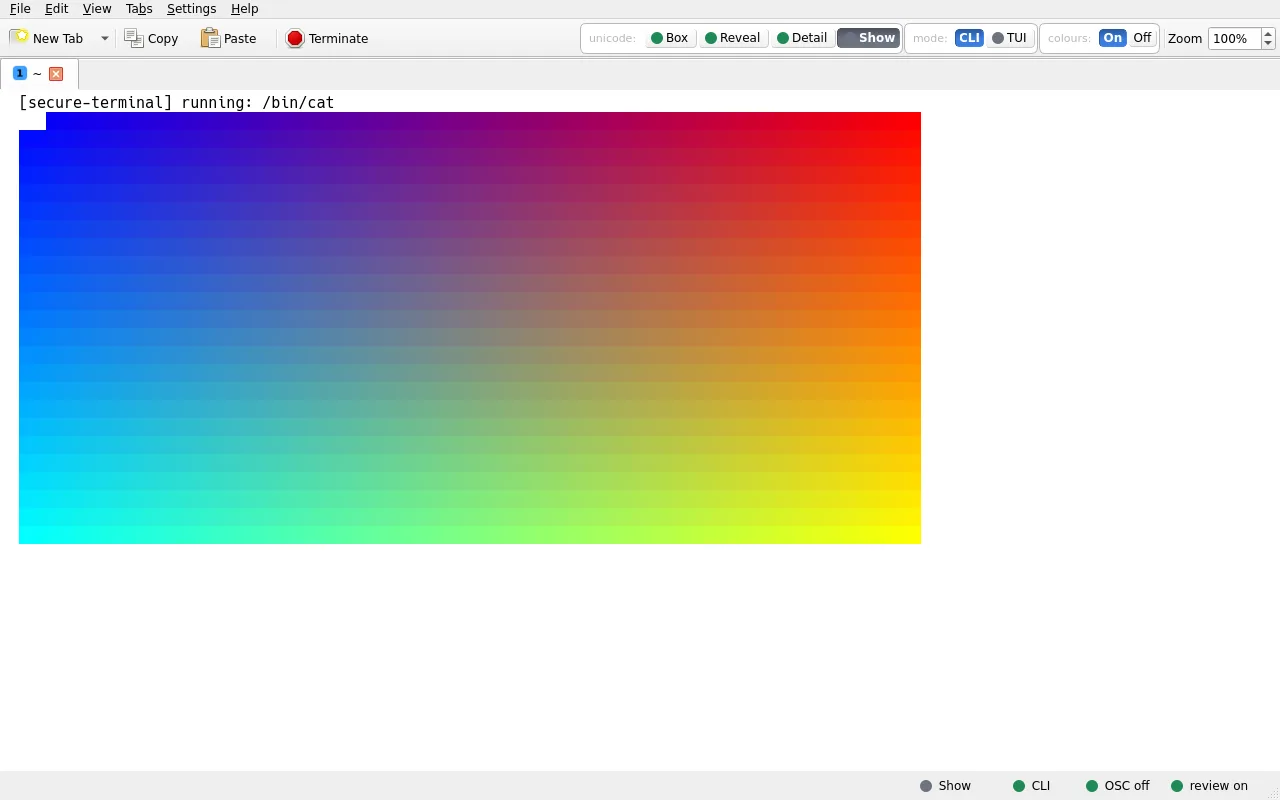
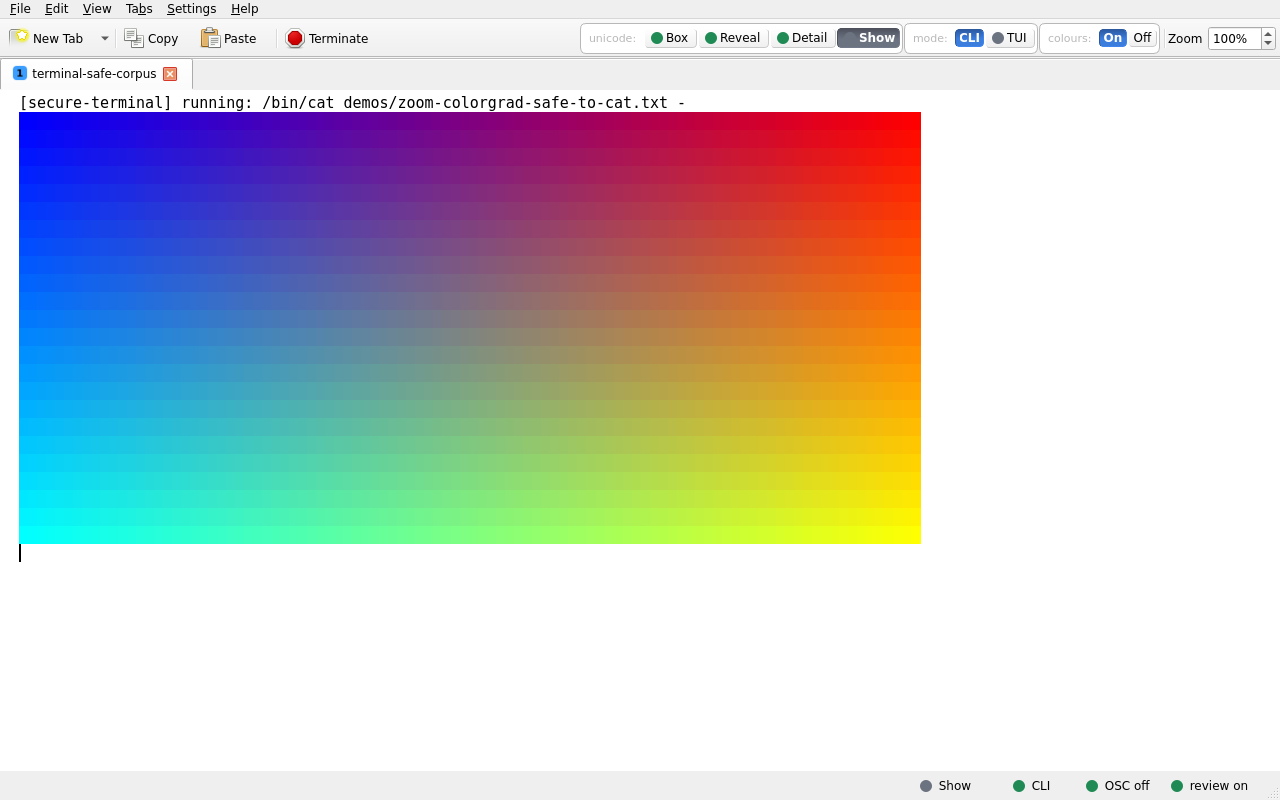
Regenerate zoom-verify shots; add TOC + reproduce blocks
- Regenerate all 23 zoom-verify shots against the fixed app: the colorgrad
  gradient's row-0 cells no longer go white (bg-only-space contrast fix), and
  each CLI shot's banner now names the real reproduce path (cat the committed
  terminal-safe-corpus board) instead of a bare /bin/cat.
- screenshots page: add the zoom-verify entry to the on-this-page TOC and a
  Reproduce block per board (view-the-board link + copyable cat command).
- ai-review page: add the missing #reproduce TOC entry (pre-existing gap the
  toc-complete guard flagged).

diff --git a/screenshots/index.html b/screenshots/index.html
@@ -70,6 +70,7 @@
     <li><a href="#showcase">Review bar &amp; modes</a></li>
     <li><a href="#render-modes">Every display mode</a></li>
     <li><a href="#compatibility">Real-tool compatibility</a></li>
+    <li><a href="#zoom-verify">Zoom levels, scanned for artifacts</a></li>
   </ul>
 </nav></div>
 
@@ -277,6 +278,7 @@ cat random.payload</code><button class="copybtn" type="button" hidden>Copy</butt
         <figure class="shot"><figcaption class="shotname"><b>CLI Detail, 1280x800, 100%</b></figcaption><a href="/screenshots/zoom/zoom-verify-tui-showcase-cli-detail-1280x800-z100.webp" target="_blank" rel="noopener"><img src="/screenshots/zoom/zoom-verify-tui-showcase-cli-detail-1280x800-z100.webp" width="1280" height="800" loading="lazy" alt="secure-terminal zoom check: combined showcase board, CLI Detail, 1280x800, 100%"></a></figure>
         <figure class="shot"><figcaption class="shotname"><b>CLI Detail, 1280x800, 200%</b></figcaption><a href="/screenshots/zoom/zoom-verify-tui-showcase-cli-detail-1280x800-z200.webp" target="_blank" rel="noopener"><img src="/screenshots/zoom/zoom-verify-tui-showcase-cli-detail-1280x800-z200.webp" width="1280" height="800" loading="lazy" alt="secure-terminal zoom check: combined showcase board, CLI Detail, 1280x800, 200%"></a></figure>
   </div>
+  <div class="repro"><div class="reprohd"><span class="repro-try">Reproduce</span> <span class="rnote">&middot; a display-only board, safe to cat anywhere &middot; <a href="https://github.com/secure-terminal/terminal-safe-corpus/blob/master/demos/zoom-tui-showcase-safe-to-cat.txt" rel="noopener">view the board &rarr;</a></span></div><div class="copybox"><code class="cmd">cat demos/zoom-tui-showcase-safe-to-cat.txt</code><button class="copybtn" type="button" hidden>Copy</button></div></div>
   <h3 id="zoom-colorgrad"><a class="h-anchor" href="#zoom-colorgrad">Dense truecolour gradient</a></h3>
   <p class="catdesc">every cell a distinct 24-bit colour - the payload most prone to reflow striping when the grid narrows under zoom.</p>
   <div class="shotgrid">
@@ -284,6 +286,7 @@ cat random.payload</code><button class="copybtn" type="button" hidden>Copy</butt
         <figure class="shot"><figcaption class="shotname"><b>CLI Show, 1280x800, 100%</b></figcaption><a href="/screenshots/zoom/zoom-verify-colorgrad-cli-show-1280x800-z100.webp" target="_blank" rel="noopener"><img src="/screenshots/zoom/zoom-verify-colorgrad-cli-show-1280x800-z100.webp" width="1280" height="800" loading="lazy" alt="secure-terminal zoom check: dense truecolour gradient, CLI Show, 1280x800, 100%"></a></figure>
         <figure class="shot"><figcaption class="shotname"><b>CLI Show, 1280x800, 200%</b></figcaption><a href="/screenshots/zoom/zoom-verify-colorgrad-cli-show-1280x800-z200.webp" target="_blank" rel="noopener"><img src="/screenshots/zoom/zoom-verify-colorgrad-cli-show-1280x800-z200.webp" width="1280" height="800" loading="lazy" alt="secure-terminal zoom check: dense truecolour gradient, CLI Show, 1280x800, 200%"></a></figure>
   </div>
+  <div class="repro"><div class="reprohd"><span class="repro-try">Reproduce</span> <span class="rnote">&middot; a display-only board, safe to cat anywhere &middot; <a href="https://github.com/secure-terminal/terminal-safe-corpus/blob/master/demos/zoom-colorgrad-safe-to-cat.txt" rel="noopener">view the board &rarr;</a></span></div><div class="copybox"><code class="cmd">cat demos/zoom-colorgrad-safe-to-cat.txt</code><button class="copybtn" type="button" hidden>Copy</button></div></div>
   <h3 id="zoom-longline-box"><a class="h-anchor" href="#zoom-longline-box">Box frame with over-long lines</a></h3>
   <p class="catdesc">a box frame plus unbroken lines longer than any grid here, to watch wrapping and the right edge across zoom.</p>
   <div class="shotgrid">
@@ -291,12 +294,14 @@ cat random.payload</code><button class="copybtn" type="button" hidden>Copy</butt
         <figure class="shot"><figcaption class="shotname"><b>CLI Show, 860x620, 110%</b></figcaption><a href="/screenshots/zoom/zoom-verify-longline-box-cli-show-860x620-z110.webp" target="_blank" rel="noopener"><img src="/screenshots/zoom/zoom-verify-longline-box-cli-show-860x620-z110.webp" width="860" height="620" loading="lazy" alt="secure-terminal zoom check: box frame with over-long lines, CLI Show, 860x620, 110%"></a></figure>
         <figure class="shot"><figcaption class="shotname"><b>CLI Show, 860x620, 300%</b></figcaption><a href="/screenshots/zoom/zoom-verify-longline-box-cli-show-860x620-z300.webp" target="_blank" rel="noopener"><img src="/screenshots/zoom/zoom-verify-longline-box-cli-show-860x620-z300.webp" width="860" height="620" loading="lazy" alt="secure-terminal zoom check: box frame with over-long lines, CLI Show, 860x620, 300%"></a></figure>
   </div>
+  <div class="repro"><div class="reprohd"><span class="repro-try">Reproduce</span> <span class="rnote">&middot; a display-only board, safe to cat anywhere &middot; <a href="https://github.com/secure-terminal/terminal-safe-corpus/blob/master/demos/zoom-longline-box-safe-to-cat.txt" rel="noopener">view the board &rarr;</a></span></div><div class="copybox"><code class="cmd">cat demos/zoom-longline-box-safe-to-cat.txt</code><button class="copybtn" type="button" hidden>Copy</button></div></div>
   <h3 id="zoom-exact-grid"><a class="h-anchor" href="#zoom-exact-grid">Exact grid-width lines</a></h3>
   <p class="catdesc">lines at a spread of exact widths, each ended by a bare newline - probes the last-column double-advance that once left a spurious blank row.</p>
   <div class="shotgrid">
         <figure class="shot"><figcaption class="shotname"><b>CLI Show, 1366x768, 100%</b></figcaption><a href="/screenshots/zoom/zoom-verify-exact-grid-cli-show-1366x768-z100.webp" target="_blank" rel="noopener"><img src="/screenshots/zoom/zoom-verify-exact-grid-cli-show-1366x768-z100.webp" width="1366" height="768" loading="lazy" alt="secure-terminal zoom check: exact grid-width lines, CLI Show, 1366x768, 100%"></a></figure>
         <figure class="shot"><figcaption class="shotname"><b>CLI Show, 1366x768, 150%</b></figcaption><a href="/screenshots/zoom/zoom-verify-exact-grid-cli-show-1366x768-z150.webp" target="_blank" rel="noopener"><img src="/screenshots/zoom/zoom-verify-exact-grid-cli-show-1366x768-z150.webp" width="1366" height="768" loading="lazy" alt="secure-terminal zoom check: exact grid-width lines, CLI Show, 1366x768, 150%"></a></figure>
   </div>
+  <div class="repro"><div class="reprohd"><span class="repro-try">Reproduce</span> <span class="rnote">&middot; a display-only board, safe to cat anywhere &middot; <a href="https://github.com/secure-terminal/terminal-safe-corpus/blob/master/demos/zoom-exact-grid-safe-to-cat.txt" rel="noopener">view the board &rarr;</a></span></div><div class="copybox"><code class="cmd">cat demos/zoom-exact-grid-safe-to-cat.txt</code><button class="copybtn" type="button" hidden>Copy</button></div></div>
   <h3 id="zoom-altscreen-short"><a class="h-anchor" href="#zoom-altscreen-short">Short alt-screen frame</a></h3>
   <p class="catdesc">a two-line alternate-screen frame; it must stay pinned to the TOP at every zoom (never scroll off), the rest of the grid legitimately blank.</p>
   <div class="shotgrid">
@@ -309,12 +314,14 @@ cat random.payload</code><button class="copybtn" type="button" hidden>Copy</butt
         <figure class="shot"><figcaption class="shotname"><b>CLI Show, 1280x800, 100%</b></figcaption><a href="/screenshots/zoom/zoom-verify-wide-cjk-cli-show-1280x800-z100.webp" target="_blank" rel="noopener"><img src="/screenshots/zoom/zoom-verify-wide-cjk-cli-show-1280x800-z100.webp" width="1280" height="800" loading="lazy" alt="secure-terminal zoom check: wide cjk and emoji, CLI Show, 1280x800, 100%"></a></figure>
         <figure class="shot"><figcaption class="shotname"><b>CLI Show, 1280x800, 250%</b></figcaption><a href="/screenshots/zoom/zoom-verify-wide-cjk-cli-show-1280x800-z250.webp" target="_blank" rel="noopener"><img src="/screenshots/zoom/zoom-verify-wide-cjk-cli-show-1280x800-z250.webp" width="1280" height="800" loading="lazy" alt="secure-terminal zoom check: wide cjk and emoji, CLI Show, 1280x800, 250%"></a></figure>
   </div>
+  <div class="repro"><div class="reprohd"><span class="repro-try">Reproduce</span> <span class="rnote">&middot; a display-only board, safe to cat anywhere &middot; <a href="https://github.com/secure-terminal/terminal-safe-corpus/blob/master/demos/zoom-wide-cjk-safe-to-cat.txt" rel="noopener">view the board &rarr;</a></span></div><div class="copybox"><code class="cmd">cat demos/zoom-wide-cjk-safe-to-cat.txt</code><button class="copybtn" type="button" hidden>Copy</button></div></div>
   <h3 id="zoom-art"><a class="h-anchor" href="#zoom-art">Wide ASCII art</a></h3>
   <p class="catdesc">wide ASCII art that legitimately WRAPS at high zoom (a wrapped space row is expected wrapping, not a defect).</p>
   <div class="shotgrid">
         <figure class="shot"><figcaption class="shotname"><b>CLI Show, 860x620, 100%</b></figcaption><a href="/screenshots/zoom/zoom-verify-art-cli-show-860x620-z100.webp" target="_blank" rel="noopener"><img src="/screenshots/zoom/zoom-verify-art-cli-show-860x620-z100.webp" width="860" height="620" loading="lazy" alt="secure-terminal zoom check: wide ascii art, CLI Show, 860x620, 100%"></a></figure>
         <figure class="shot"><figcaption class="shotname"><b>CLI Show, 860x620, 300%</b></figcaption><a href="/screenshots/zoom/zoom-verify-art-cli-show-860x620-z300.webp" target="_blank" rel="noopener"><img src="/screenshots/zoom/zoom-verify-art-cli-show-860x620-z300.webp" width="860" height="620" loading="lazy" alt="secure-terminal zoom check: wide ascii art, CLI Show, 860x620, 300%"></a></figure>
   </div>
+  <div class="repro"><div class="reprohd"><span class="repro-try">Reproduce</span> <span class="rnote">&middot; a display-only board, safe to cat anywhere &middot; <a href="https://github.com/secure-terminal/terminal-safe-corpus/blob/master/demos/zoom-art-safe-to-cat.txt" rel="noopener">view the board &rarr;</a></span></div><div class="copybox"><code class="cmd">cat demos/zoom-art-safe-to-cat.txt</code><button class="copybtn" type="button" hidden>Copy</button></div></div>
 </div></section>
 </main>
 <footer>

diff --git a/ai-review/index.html b/ai-review/index.html
@@ -74,6 +74,7 @@
     <li><a href="#scanners">6. Static analysis</a></li>
     <li><a href="#review">7. AI review</a></li>
     <li><a href="#resilience">8. Differential regression</a></li>
+    <li><a href="#reproduce">Run the evidence yourself</a></li>
   </ul>
 </nav></div>
 
